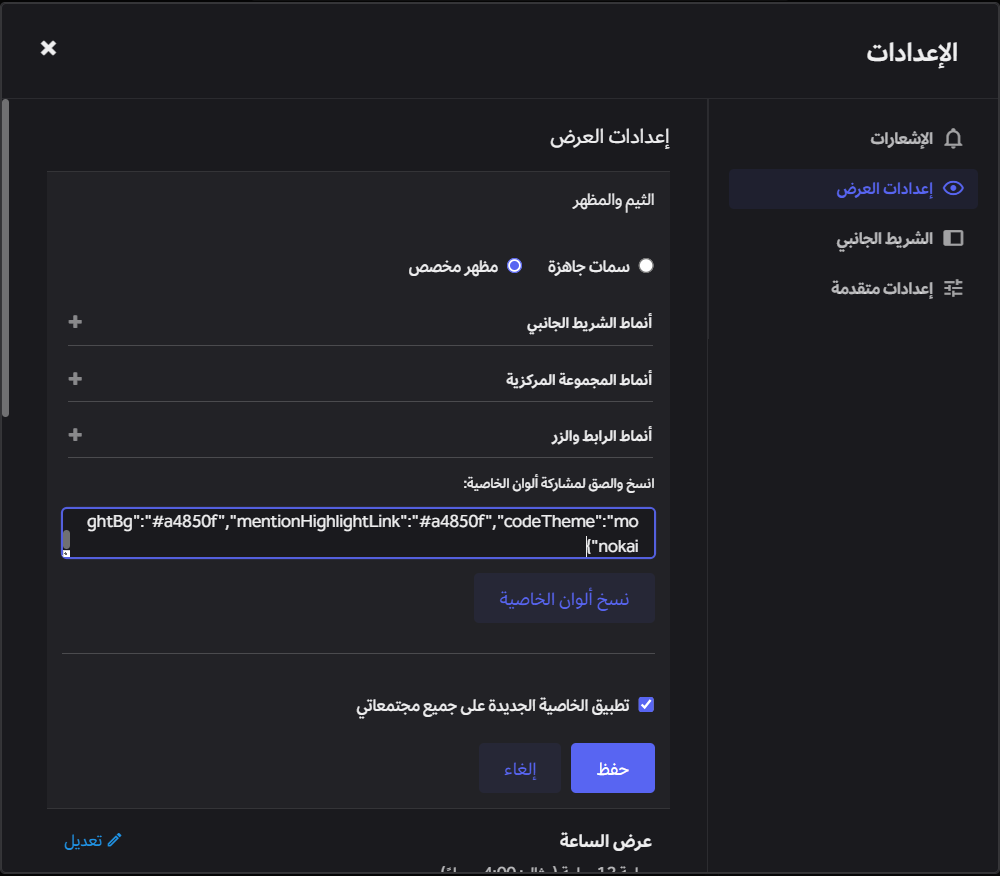
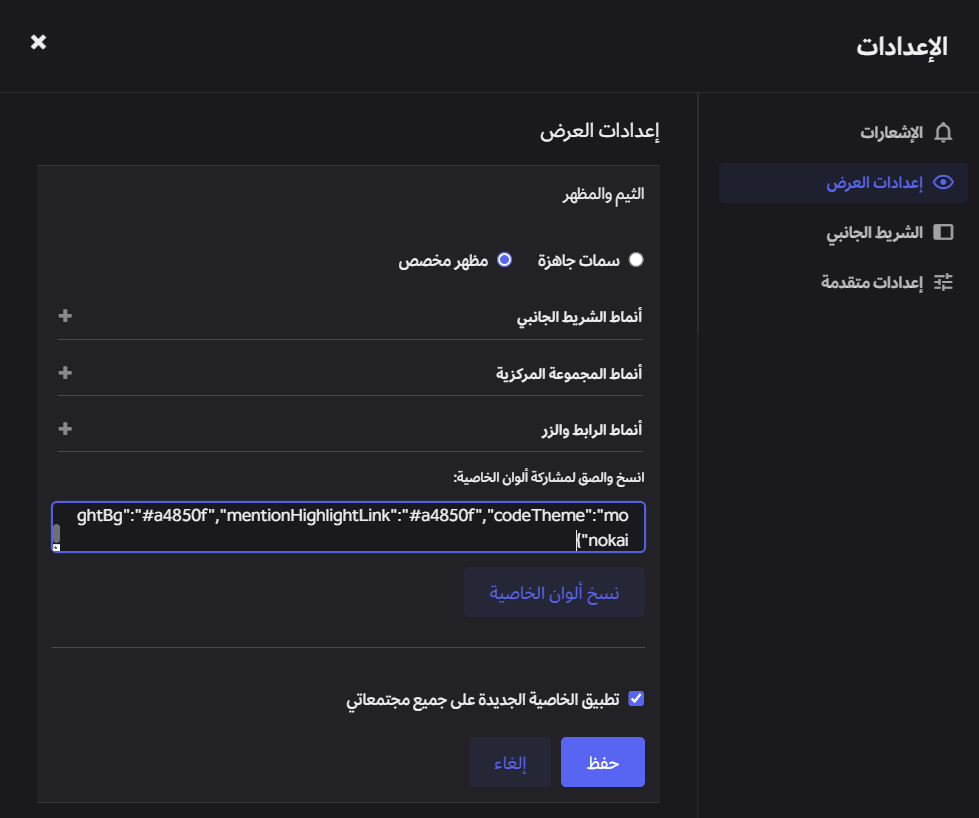
feat: add always-dark image class and fix Discord Dark Theme rendering
Introduce `.always-dark` CSS class to prevent theme-based image inversion for screenshots that must display in dark mode regardless of user preference. Update Discord Dark Theme documentation to use Astro's Image component with the new class, and replace the theme image asset. Exclude `.always-dark` images from existing light/dark mode filter rules across stylesheets.

diff --git a/src/styles/light-dark-img.css b/src/styles/light-dark-img.css
@@ -1,5 +1,5 @@
 /* استهداف الصور داخل محتوى التوثيق فقط */
-:root[data-theme='dark'] .sl-markdown-content :global(img) {
+:root[data-theme='dark'] .sl-markdown-content :global(img:not(.always-dark)) {
   /* عكس الألوان مع الحفاظ على درجة اللون الأصلية للأيقونات */
   filter: invert(1) hue-rotate(180deg) contrast(1.4) brightness(1.1) !important;
   /* إضافة تأثير بسيط لجعل الصورة تبدو كجزء من الواجهة الداكنة */
@@ -9,22 +9,22 @@
 
 /* استثناء الصور التي لا تريد عكس ألوانها (اختياري) */
 /* استهداف الصور داخل محتوى المقال فقط مع استخدام !important لضمان التنفيذ */
-:root[data-theme='dark'] .sl-markdown-content img,
-:root[data-theme='dark'] .sl-markdown-content img:not(.light-only),
-:root[data-theme='dark'] .sl-markdown-content picture img {
+:root[data-theme='dark'] .sl-markdown-content img:not(.always-dark),
+:root[data-theme='dark'] .sl-markdown-content img:not(.light-only):not(.always-dark),
+:root[data-theme='dark'] .sl-markdown-content picture img:not(.always-dark) {
   filter: invert(0.9) hue-rotate(180deg) brightness(1.1) !important;
   transition: filter 0.3s ease-in-out;
 }
 
 /* لمنع الصور من أن تبدو باهتة جداً */
-:root[data-theme='dark'] .sl-markdown-content img {
+:root[data-theme='dark'] .sl-markdown-content img:not(.always-dark) {
   mix-blend-mode: normal; /* جرب تغييرها إلى lighten إذا كانت الخلفية سوداء تماماً */
 }
 /* 1. الحالة الأولى: الموقع في الوضع الداكن والصورة "فاتحة" (تحتاج لعكس) */
 
 
 /* 3. الحالة الثالثة: الموقع في الوضع الفاتح والصورة أصلاً "داكنة" (تحتاج لعكس لتصبح فاتحة) */
-:root[data-theme='light'] .sl-markdown-content :global(img[src="dark"]) {
+:root[data-theme='light'] .sl-markdown-content :global(img[src="dark"]:not(.always-dark)) {
   filter: invert(1) hue-rotate(180deg) contrast(1.2) !important;
 }
 
@@ -37,7 +37,7 @@
 }
 
 /* استهداف الصور داخل محتوى التوثيق فقط */
-:root[data-theme='dark'] .sl-markdown-content :global(img) {
+:root[data-theme='dark'] .sl-markdown-content :global(img:not(.always-dark)) {
   /* عكس الألوان مع الحفاظ على درجة اللون الأصلية للأيقونات */
   filter: invert(1) hue-rotate(180deg) contrast(1.4) brightness(1.1) !important;
   /* إضافة تأثير بسيط لجعل الصورة تبدو كجزء من الواجهة الداكنة */
@@ -47,24 +47,24 @@
 
 /* استثناء الصور التي لا تريد عكس ألوانها (اختياري) */
 /* استهداف الصور داخل محتوى المقال فقط مع استخدام !important لضمان التنفيذ */
-:root[data-theme='dark'] .sl-markdown-content img,
-:root[data-theme='dark'] .sl-markdown-content picture img {
+:root[data-theme='dark'] .sl-markdown-content img:not(.always-dark),
+:root[data-theme='dark'] .sl-markdown-content picture img:not(.always-dark) {
   filter: invert(0.9) hue-rotate(180deg) brightness(1.1) !important;
   transition: filter 0.3s ease-in-out;
 }
 
 /* لمنع الصور من أن تبدو باهتة جداً */
-:root[data-theme='dark'] .sl-markdown-content img {
+:root[data-theme='dark'] .sl-markdown-content img:not(.always-dark) {
   mix-blend-mode: normal; /* جرب تغييرها إلى lighten إذا كانت الخلفية سوداء تماماً */
 }
 /* 1. الحالة الأولى: الموقع في الوضع الداكن والصورة "فاتحة" (تحتاج لعكس) */
 
 
 /* 3. الحالة الثالثة: الموقع في الوضع الفاتح والصورة أصلاً "داكنة" (تحتاج لعكس لتصبح فاتحة) */
-:root[data-theme='light'] .sl-markdown-content :global(img[src="dark"]) {
+:root[data-theme='light'] .sl-markdown-content :global(img[src="dark"]:not(.always-dark)) {
   filter: invert(1) hue-rotate(180deg) contrast(1.2) !important;
 }
-:root[data-theme='light'] .sl-markdown-content :global(img[data-origin="dark"]) {
+:root[data-theme='light'] .sl-markdown-content :global(img[data-origin="dark"]:not(.always-dark)) {
   filter: invert(1) hue-rotate(180deg) contrast(1.1) brightness(1.2) !important;
   mix-blend-mode: multiply; /* يزيل الحواف البيضاء الزائدة */
 }
@@ -74,7 +74,7 @@
 
 /* 3. ضمان أن الصور الأخرى (الفاتحة) تعمل بشكل طبيعي */
 /* إذا أردت عكس الصور الفاتحة لتصبح داكنة في الوضع الليلي */
-:root[data-theme='light'] .sl-markdown-content img[data-origin="dark"] {
+:root[data-theme='light'] .sl-markdown-content img[data-origin="dark"]:not(.always-dark) {
     filter: invert(1) hue-rotate(180deg) contrast(1.3) brightness(1.1) !important;
     background-color: #000 !important;
     mix-blend-mode: plus-lighter;
@@ -123,3 +123,13 @@
 /* :root[data-theme='dark'] .sl-markdown-content img:not(.dark-only):not(.light-only) {
     filter: invert(1) hue-rotate(180deg) contrast(1.4) !important;
 } */
+
+/* --- استثناء خاص للصور التي يجب أن تظهر دائماً بنمطها الداكن الأصلي دون أي فلاتر في كلا الوضعين الفاتح والداكن --- */
+:root[data-theme] .sl-markdown-content img.always-dark,
+:root[data-theme] .sl-markdown-content :global(img.always-dark),
+:root[data-theme] .sl-markdown-content picture img.always-dark {
+    filter: none !important;
+    mix-blend-mode: normal !important;
+    opacity: 1 !important;
+    background-color: transparent !important;
+}

diff --git a/src/styles/custom.css b/src/styles/custom.css
@@ -150,19 +150,19 @@ kbd, .kbd-shortcut {
   transition: all 0.2s ease-out;
 }
 
-:root[data-theme='dark'] .sl-markdown-content img {
+:root[data-theme='dark'] .sl-markdown-content img:not(.always-dark) {
   mix-blend-mode: normal; 
 }
 
-:root[data-theme='light'] .sl-markdown-content :global(img[src*="dark"]) {
+:root[data-theme='light'] .sl-markdown-content :global(img[src*="dark"]:not(.always-dark)) {
   filter: invert(1) hue-rotate(180deg) contrast(1.2) !important;
 }
-:root[data-theme='light'] .sl-markdown-content :global(img[data-origin="dark"]) {
+:root[data-theme='light'] .sl-markdown-content :global(img[data-origin="dark"]:not(.always-dark)) {
   filter: invert(1) hue-rotate(180deg) contrast(1.1) brightness(1.2) !important;
   mix-blend-mode: multiply; 
 }
 
-:root[data-theme='light'] .sl-markdown-content img[data-origin="dark"] {
+:root[data-theme='light'] .sl-markdown-content img[data-origin="dark"]:not(.always-dark) {
     filter: invert(1) hue-rotate(180deg) contrast(1.3) brightness(1.1) !important;
     background-color: #000 !important;
     mix-blend-mode: plus-lighter;
@@ -412,19 +412,19 @@ kbd, .kbd-shortcut {
    ========================================================================== */
 
 /* منع بهتان الصور الافتراضية في الوضع الداكن */
-:root[data-theme='dark'] .sl-markdown-content img {
+:root[data-theme='dark'] .sl-markdown-content img:not(.always-dark) {
     mix-blend-mode: normal;
 }
 
 /* عند تفعيل الوضع الفاتح: عكس ألوان الصور المصممة أساساً للخلفيات الداكنة لتلائم البياض */
-:root[data-theme='light'] .sl-markdown-content img[src*="dark"],
-:root[data-theme='light'] .sl-markdown-content img[data-origin="dark"] {
+:root[data-theme='light'] .sl-markdown-content img[src*="dark"]:not(.always-dark),
+:root[data-theme='light'] .sl-markdown-content img[data-origin="dark"]:not(.always-dark) {
     filter: invert(1) hue-rotate(180deg) contrast(1.2) brightness(1.1) !important;
     mix-blend-mode: multiply; /* تنظيف الحواف وإزالة الرتوش البيضاء الزائدة */
 }
 
 /* عند تفعيل الوضع الداكن: إيقاف الفلاتر تماماً وإعادة إظهار الصور الداكنة بطبيعتها الأصلية */
-:root[data-theme='dark'] .sl-markdown-content img[data-origin="dark"] {
+:root[data-theme='dark'] .sl-markdown-content img[data-origin="dark"]:not(.always-dark) {
     filter: none !important;
     mix-blend-mode: normal !important;
     background-color: transparent !important;
@@ -457,4 +457,15 @@ kbd, .kbd-shortcut {
     z-index: 999 !important;
     cursor: zoom-out !important;
     backdrop-filter: blur(8px);
+}
+
+/* ==========================================================================
+   8. استثناء الصور التي يجب أن تظهر دائماً بنمطها الداكن الأصلي
+   ========================================================================== */
+
+:root[data-theme] .sl-markdown-content img.always-dark {
+    filter: none !important;
+    mix-blend-mode: normal !important;
+    opacity: 1 !important;
+    background-color: transparent !important;
 }